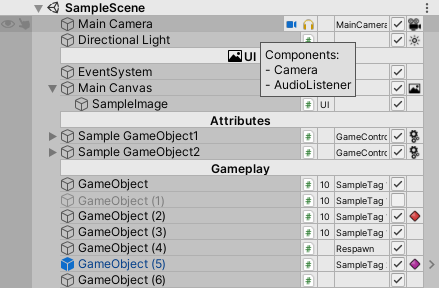
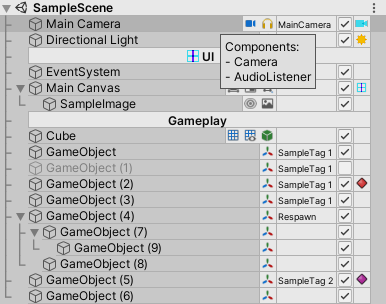
Fix displaying border line for full-rect property labels; minor refactor changes; update docs

diff --git a/Assets/Editor Toolbox/Editor/Hierarchy/HierarchyPropertyLabel.cs b/Assets/Editor Toolbox/Editor/Hierarchy/HierarchyPropertyLabel.cs
@@ -139,6 +139,10 @@ namespace Toolbox.Editor.Hierarchy
                 var layerMask = target.layer;
                 var layerName = LayerMask.LayerToName(layerMask);
 
+                var contentText = GetContentText();
+                var content = new GUIContent(contentText, $"{layerName} layer");
+                EditorGUI.LabelField(rect, content, Style.centreAlignTextStyle);
+
                 string GetContentText()
                 {
                     switch (layerMask)
@@ -148,9 +152,6 @@ namespace Toolbox.Editor.Hierarchy
                         default: return layerMask.ToString();
                     }
                 }
-
-                var content = new GUIContent(GetContentText(), layerName + " layer");
-                EditorGUI.LabelField(rect, content, Style.centreAlignTextStyle);
             }
         }
 
@@ -159,43 +160,31 @@ namespace Toolbox.Editor.Hierarchy
             private static Texture componentIcon;
             private static Texture transformIcon;
 
-            private float baseWidth;
-            private float summWidth;
-
-            private bool isHighlighted;
-
             /// <summary>
             /// Cached components of the last prepared <see cref="target"/>.
             /// </summary>
-            private List<Component> cachedComponents;
+            private Component[] components;
+            private float baseWidth;
+            private float summWidth;
+            private bool isHighlighted;
 
-            private void CacheComponents(GameObject target)
+            private GUIContent GetTooltipContent()
             {
-                var components = target.GetComponents<Component>();
-                cachedComponents = new List<Component>(components.Length);
-                //cache only valid (non-null) components
-                foreach (var component in components)
-                {
-                    if (component == null)
-                    {
-                        continue;
-                    }
-
-                    cachedComponents.Add(component);
-                }
-            }
-
-            private GUIContent GetTooltip(Rect rect)
-            {
-                var componentsCount = cachedComponents.Count;
+                var componentsCount = components.Length;
                 var tooltipBuilder = new StringBuilder();
                 var tooltipContent = new GUIContent();
 
                 tooltipBuilder.Append("Components:\n");
                 for (var i = 1; i < componentsCount; i++)
                 {
+                    var component = components[i];
+                    if (component == null)
+                    {
+                        continue;
+                    }
+
                     tooltipBuilder.Append("- ");
-                    tooltipBuilder.Append(cachedComponents[i].GetType().Name);
+                    tooltipBuilder.Append(component.GetType().Name);
                     if (componentsCount - 1 != i)
                     {
                         tooltipBuilder.Append("\n");
@@ -209,6 +198,7 @@ namespace Toolbox.Editor.Hierarchy
             private GUIContent GetContent(Component component)
             {
                 var content = EditorGUIUtility.ObjectContent(component, component.GetType());
+                content.text = string.Empty;
                 if (content.image == null)
                 {
                     content.image = componentIcon;
@@ -220,31 +210,23 @@ namespace Toolbox.Editor.Hierarchy
             public override bool Prepare(GameObject target, Rect availableRect)
             {
                 var isValid = base.Prepare(target, availableRect);
-                if (isValid)
+                if (!isValid)
                 {
-                    baseWidth = Style.minWidth;
-                    var rect = availableRect;
-                    rect.xMin = rect.xMax - baseWidth;
-                    if (rect.Contains(Event.current.mousePosition))
-                    {
-                        isHighlighted = true;
-                        CacheComponents(target);
-                        summWidth = cachedComponents.Count > 1
-                            ? (cachedComponents.Count - 1) * baseWidth
-                            : baseWidth;
-                    }
-                    else
-                    {
-                        isHighlighted = false;
-                        summWidth = baseWidth;
-                    }
-
-                    componentIcon = componentIcon ?? EditorGUIUtility.IconContent("cs Script Icon").image;
-                    transformIcon = transformIcon ?? EditorGUIUtility.IconContent("Transform Icon").image;
-                    return true;
+                    return false;
                 }
 
-                return false;
+                baseWidth = Style.minWidth;
+                components = target.GetComponents<Component>();
+                var componentsCount = components.Length;
+                summWidth = componentsCount > 1
+                    ? (componentsCount - 1) * baseWidth
+                    : baseWidth;
+
+                isHighlighted = availableRect.Contains(Event.current.mousePosition);
+
+                componentIcon = componentIcon != null ? componentIcon : EditorGUIUtility.IconContent("cs Script Icon").image;
+                transformIcon = transformIcon != null ? transformIcon : EditorGUIUtility.IconContent("Transform Icon").image;
+                return true;
             }
 
             public override float GetWidth()
@@ -254,47 +236,43 @@ namespace Toolbox.Editor.Hierarchy
 
             public override void OnGui(Rect rect)
             {
-                var tooltip = string.Empty;
-                var texture = componentIcon;
-
+                var fullRect = rect;
                 rect.xMin = rect.xMax - baseWidth;
+
+                var componentsCount = components.Length;
+                if (componentsCount <= 1)
+                {
+                    GUI.Label(fullRect, new GUIContent(transformIcon, "There is no additional component"));
+                    return;
+                }
+
+                rect.xMin -= baseWidth * (componentsCount - 2);
+
+                var iconRect = rect;
+                iconRect.xMin = rect.xMin;
+                iconRect.xMax = rect.xMin + baseWidth;
+
+                //draw all icons associated to cached components (except transform)
+                for (var i = 1; i < components.Length; i++)
+                {
+                    var component = components[i];
+                    if (component == null)
+                    {
+                        continue;
+                    }
+
+                    var content = GetContent(component);
+                    //draw icon for the current component
+                    GUI.Label(iconRect, content);
+                    //adjust rect for the next script icon
+                    iconRect.x += baseWidth;
+                }
 
                 if (isHighlighted)
                 {
-                    var componentsCount = cachedComponents.Count;
-                    if (componentsCount > 1)
-                    {
-                        //draw tooltip based on all available components
-                        GUI.Label(rect, GetTooltip(rect));
-
-                        rect.xMin -= baseWidth * (componentsCount - 2);
-
-                        var iconRect = rect;
-                        iconRect.xMin = rect.xMin;
-                        iconRect.xMax = rect.xMin + baseWidth;
-
-                        //draw all icons associated to cached components (except transform)
-                        for (var i = 1; i < cachedComponents.Count; i++)
-                        {
-                            var component = cachedComponents[i];
-                            var content = GetContent(component);
-
-                            //draw icon for the current component
-                            GUI.Label(iconRect, new GUIContent(content.image));
-                            //adjust rect for the next script icon
-                            iconRect.x += baseWidth;
-                        }
-
-                        return;
-                    }
-                    else
-                    {
-                        texture = transformIcon;
-                        tooltip = "There is no additional component";
-                    }
+                    var tooltipContent = GetTooltipContent();
+                    GUI.Label(fullRect, tooltipContent);
                 }
-
-                GUI.Label(rect, new GUIContent(texture, tooltip));
             }
         }
 
@@ -409,19 +387,19 @@ namespace Toolbox.Editor.Hierarchy
                         if (GetParentChildCount(target) == (siblingIndex + 1))
                         {
                             renderedLastLevelGameobject = true;
-                            EditorGUI.LabelField(rect, Style.elementLast, Style.centreAlignTreeLineStyle);
+                            EditorGUI.LabelField(rect, Style.treeElementLast, Style.treeElementStyle);
                         }
                         else
                         {
                             renderedLastLevelGameobject = false;
-                            EditorGUI.LabelField(rect, Style.elementCross, Style.centreAlignTreeLineStyle);
+                            EditorGUI.LabelField(rect, Style.treeElementCross, Style.treeElementStyle);
                         }
                     }
                     else
                     {
                         if (!renderedLastLevelGameobject)
                         {
-                            EditorGUI.LabelField(rect, Style.elementPass, Style.centreAlignTreeLineStyle);
+                            EditorGUI.LabelField(rect, Style.treeElementPass, Style.treeElementStyle);
                         }
                     }
                 }
@@ -461,19 +439,19 @@ namespace Toolbox.Editor.Hierarchy
             internal static readonly GUIStyle defaultAlignTextStyle;
             internal static readonly GUIStyle centreAlignTextStyle;
             internal static readonly GUIStyle rightAlignTextStyle;
-            internal static readonly GUIStyle centreAlignTreeLineStyle;
+            internal static readonly GUIStyle treeElementStyle;
 
-            internal static readonly GUIContent elementLast;
-            internal static readonly GUIContent elementCross;
-            internal static readonly GUIContent elementPass;
+            internal static readonly GUIContent treeElementLast;
+            internal static readonly GUIContent treeElementCross;
+            internal static readonly GUIContent treeElementPass;
 
             internal static readonly Color characterColor;
 
             static Style()
             {
-                elementLast = new GUIContent("└");
-                elementCross = new GUIContent("├");
-                elementPass = new GUIContent("│");
+                treeElementLast = new GUIContent("└");
+                treeElementCross = new GUIContent("├");
+                treeElementPass = new GUIContent("│");
 
                 defaultAlignTextStyle = new GUIStyle(EditorStyles.miniLabel)
                 {
@@ -503,14 +481,14 @@ namespace Toolbox.Editor.Hierarchy
                     alignment = TextAnchor.UpperRight
 #endif
                 };
-                centreAlignTreeLineStyle = new GUIStyle(EditorStyles.miniLabel)
+                treeElementStyle = new GUIStyle(EditorStyles.miniLabel)
                 {
-                    fontSize = 18,
+                    fontSize = 16,
                 };
 
                 if (!EditorGUIUtility.isProSkin)
                 {
-                    centreAlignTreeLineStyle.normal.textColor = Color.white;
+                    treeElementStyle.normal.textColor = Color.white;
                 }
             }
         }

diff --git a/Assets/Editor Toolbox/Editor/ToolboxEditorHierarchy.cs b/Assets/Editor Toolbox/Editor/ToolboxEditorHierarchy.cs
@@ -158,11 +158,12 @@ namespace Toolbox.Editor
                     //depending on previously occupied rect we have to adjust current rect
                     var propertyLabel = propertyLabels[i];
                     contentRect = AppendPropertyLabel(propertyLabel, gameObject, availableRect);
-                    if (!propertyLabel.UsesWholeItemRect)
+                    if (propertyLabel.UsesWholeItemRect)
                     {
-                        availableRect.xMax -= contentRect.width;
+                        continue;
                     }
-      
+
+                    availableRect.xMax -= contentRect.width;
                     EditorGUI.DrawRect(new Rect(contentRect.xMin, rect.y, Style.lineWidth, rect.height), Style.lineColor);
                 }
 
